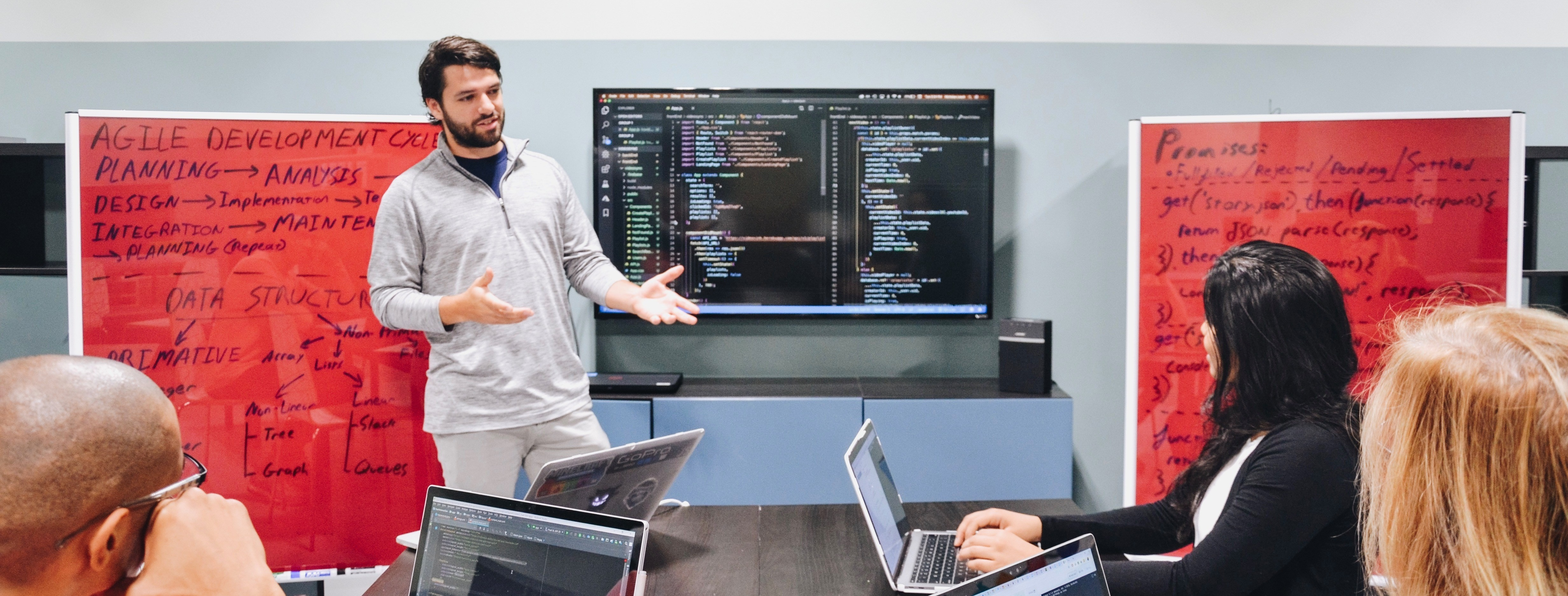
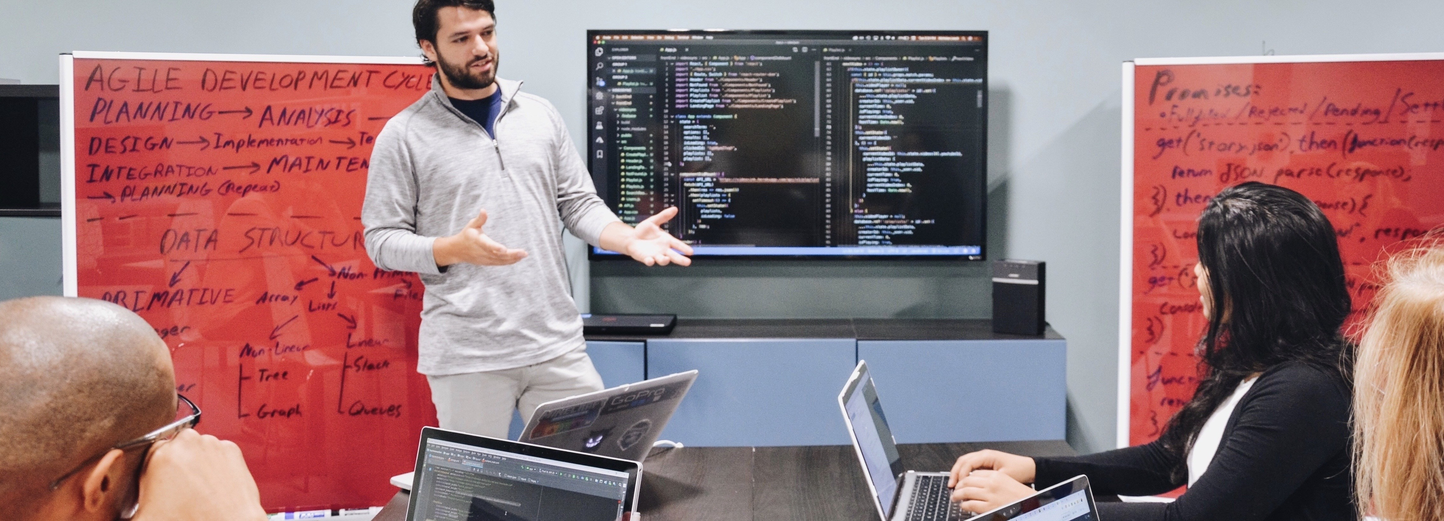
updated header images

diff --git a/software-engineering/src/components/TryCoding/TryCodingJumbotron.css b/software-engineering/src/components/TryCoding/TryCodingJumbotron.css
@@ -1,5 +1,5 @@
 .tryCodingJumbo{
-    background-image: url('../../assets/NebulaAcademyBootCampImg2Cover.jpg');
+    background-image: url('../../assets/15_OutcomesHeader.jpg');
     background-size: cover;
     color: #ccc;
     z-index: 02;
